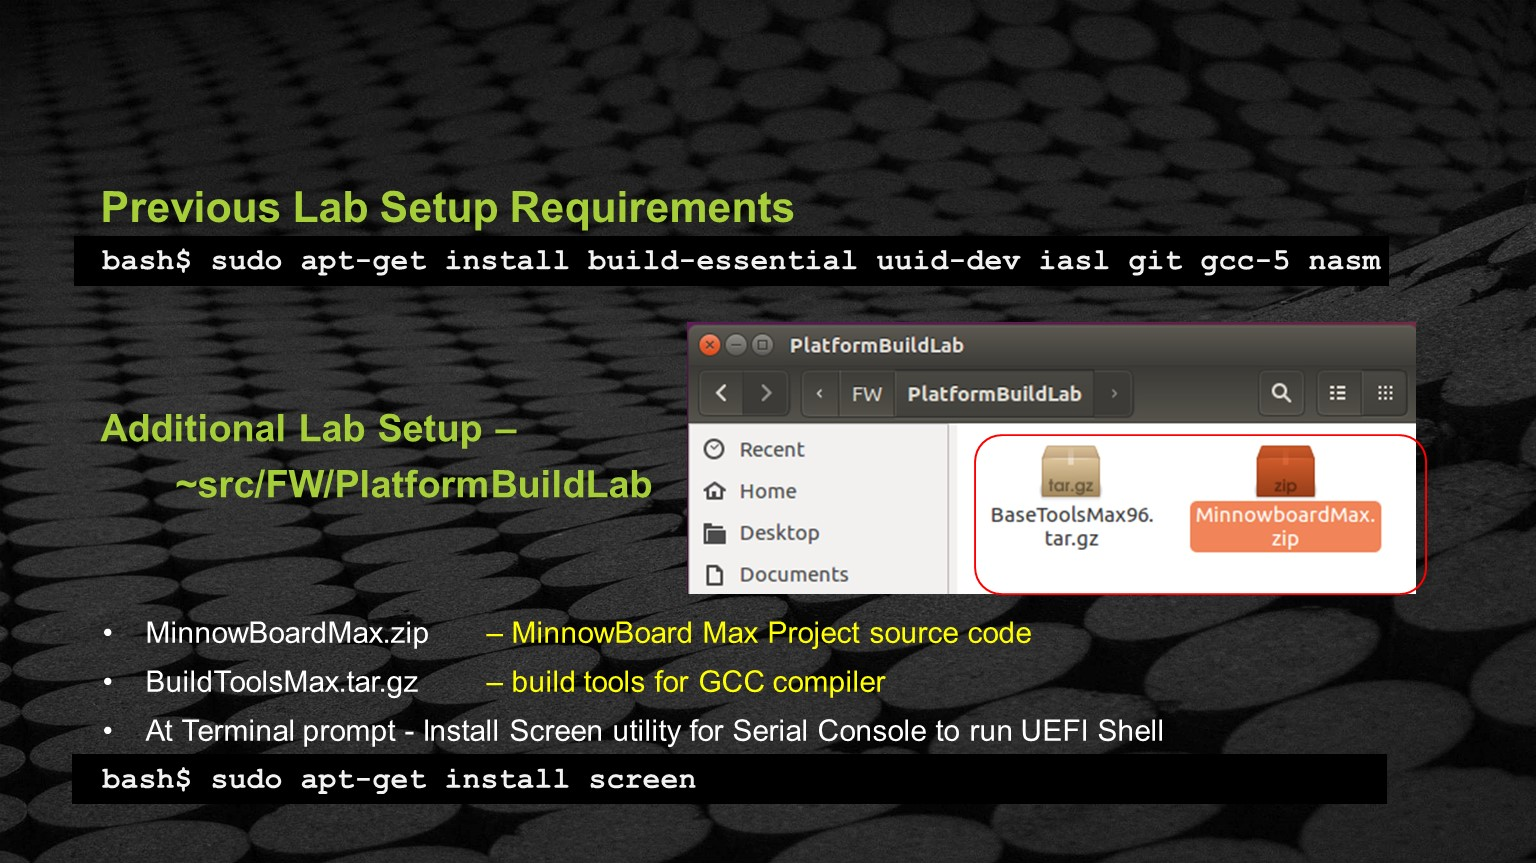
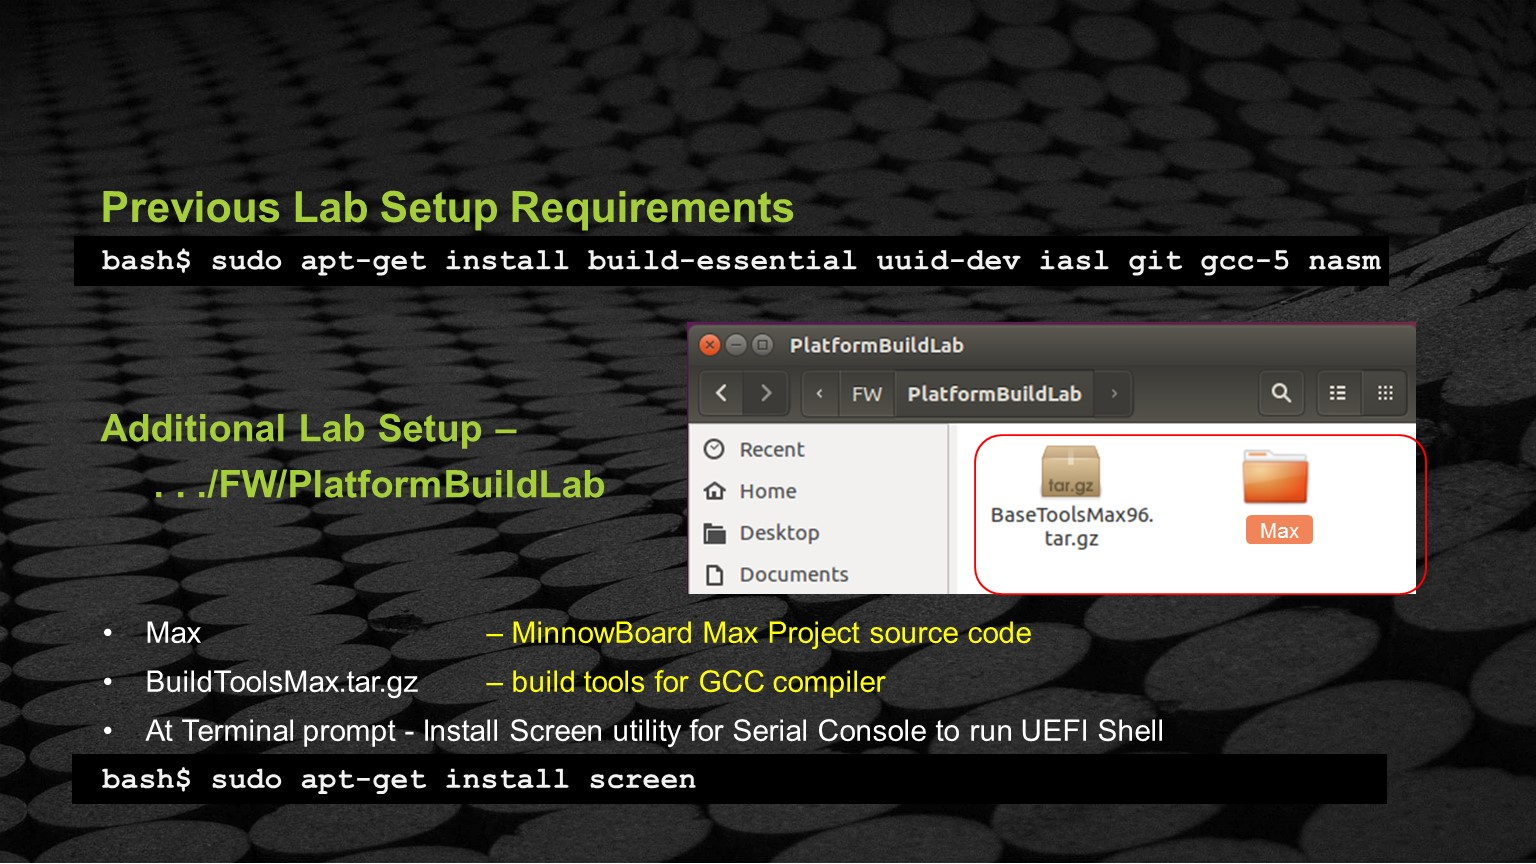
Signed-off-by: Laurie0131 <laurie.jarlstrom@intel.com>

Changed region(s): [[0.125, 0.5312, 0.4375, 0.5938], [0.75, 0.5, 0.9062, 0.6562], [0.0938, 0.7188, 0.2812, 0.75]]

diff --git a/PITCHME.md b/PITCHME.md
@@ -532,7 +532,7 @@ bash$ sudo apt-get install build-essential uuid-dev iasl git gcc-5 nasm
 ```
 Additional Lab Setup – `       ~src/FW/PlatformBuildLab`
 
-- MinnowBoardMax.zip 	– MinnowBoard Max Project source code 
+- Max                	– MinnowBoard Max Project source code 
 - BuildToolsMax.tar.gz 	– build tools for GCC compiler 
 - At Terminal prompt - Install Screen utility for Serial Console to run UEFI Shell 
 ```
@@ -543,11 +543,13 @@ bash$ sudo apt-get install screen
 @title[Get the Minnowboard Max Source]
 ### <p align="right"><span class="gold" >Get the Minnowboard Max Source</span></p>
 
-- Extract the file ~FW/PlatformBuildLab/MinnowboardMax.zip  to  ~src
-
-
 Note:
--  Extract the file ~FW/PlatformBuildLab/MinnowboardMax.zip  to  ~src
+- Open a terminal prompt  (Alt-Cnt-T)
+- Create a working  space source directory under the home directory
+   - bash$ mkdir ~src
+- From the FW/PlatformBuildLab folder, copy and paste folder “~FW/Max” to ~src
+ 
+
 
 ---?image=/assets/images/slides3/Slide14.JPG
 @title[Get the BaseTools]
@@ -577,13 +579,15 @@ Note:
 @title[Steps to Build & Install Firmware]
 <br><br>
 ### <p align="center"><span class="gold" >Steps to Build & Install Firmware</span></p>
-
-1. Open Terminal prompt (Cnt-Alt-T)
-2. Cd to  project directory :    `$HOME/src/Max/edk2-platforms/Vlv2TbltDevicePkg` <br>
-3. Invoke the build process
-4. Locate build output (.BIN file for BIOS image)
-5. Flash binary image onto the platform
-6. Reset and boot new firmware to UEFI Shell
+<ol>
+  <li><span style="font-size:0.9em">Open Terminal prompt (Cnt-Alt-T)</span></li>
+  <li><span style="font-size:0.9em"> Cd to  project directory :    `$HOME/src/Max/edk2-platforms/Vlv2TbltDevicePkg` </span></li>
+  <li><span style="font-size:0.9em">Invoke the build process</span></li>
+  <li><span style="font-size:0.9em"> Locate build output (.BIN file for BIOS image)</span></li>
+  <li><span style="font-size:0.9em"> Flash binary image onto the platform</span></li>
+  <li><span style="font-size:0.9em"> Reset and boot new firmware to UEFI Shell</span></li>
+</ol>
+<br>
 <br>
 <span style="font-size:0.7em"><font color="gray"><i>Next slides will follow the above steps</i></font></span>
 
@@ -595,18 +599,18 @@ Slide says it all
 ---
 @title[fix shell properties ]
 <br>
-<p align="right"><span class="gold" >Open a Terminal prompt - fix shell properties to Execute</span></p>
-
-<br>
+<p align="left"><span class="gold" >Fix shell properties to Execute</span></p>
 - Open Terminal prompt (Cnt-Alt-T)
 - Cd to work space directory
 - Fix script files to "execute"
-<br>
 <BR>
 ```
 bash$ cd ~src/Max/edk2
+
 bash$ chmod +x edksetup.sh
+
 bash$ cd ~src/Max/edk2-platforms/
+
 bash$ chmod +x Vlv2TbltDevicePkg/bld_vlv.sh 
 bash$ chmod +x Vlv2TbltDevicePkg/Build_IFWI.sh
 bash$ chmod +x Vlv2TbltDevicePkg/GenBiosId
@@ -782,7 +786,7 @@ Note:
 <br>
 <br>
 <br>
-
+<br>
 <span style="font-size:0.5em">The EDK II build generates multiple firmware volumes, which are combined in the .BIN image</span>
 
 
